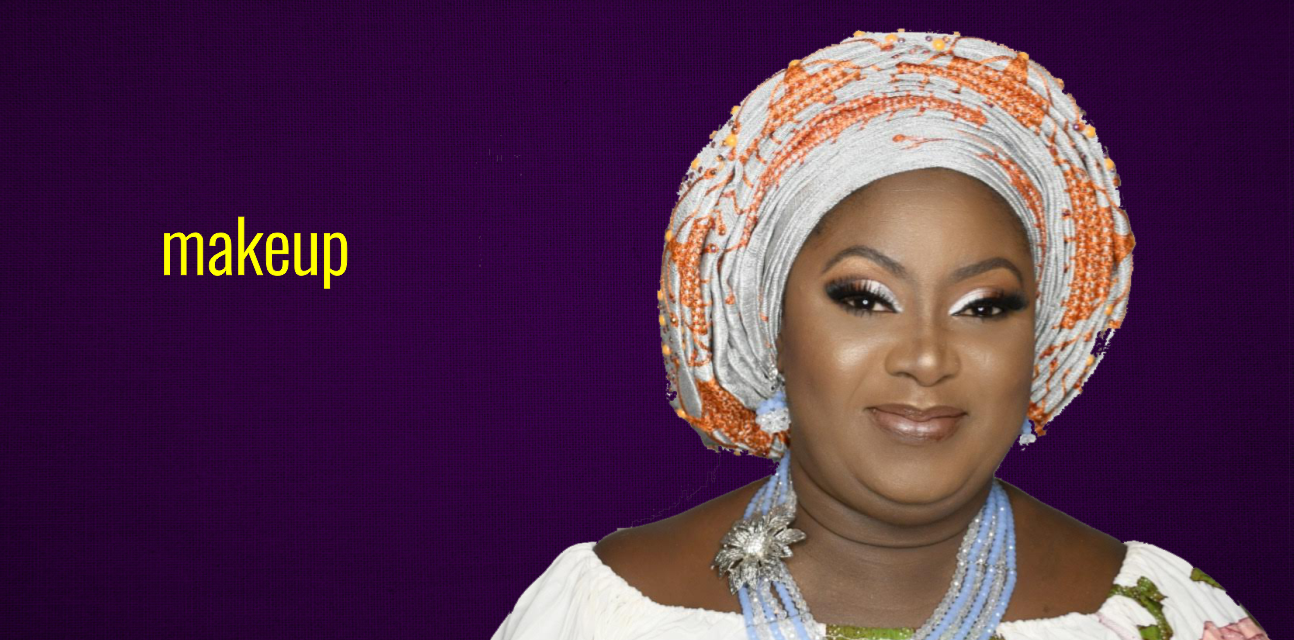
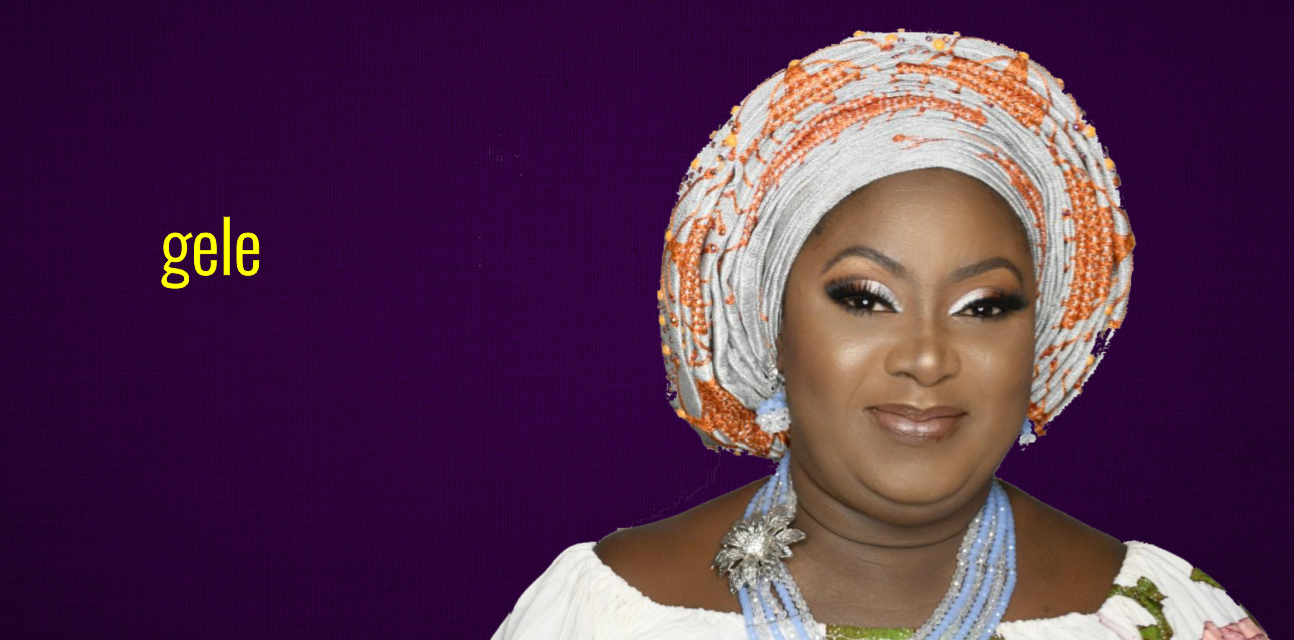
gele gallery

Changed region(s): [[0.1236, 0.3438, 0.2782, 0.4688]]

diff --git a/index.html b/index.html
@@ -273,13 +273,75 @@
       <hr />
       <div id="month-js"></div>
     </div>
-    <section id="gele"></section>
-    <section id="eyelash"></section>
-    <section id="eyebrow"></section>
-    <section id="makeover">
+    <!-- gele gallery -->
+    <section id="gele">
       <div class="gallery">
         <a href="img/banner/gele2.png" class="big-one"
           ><img src="img/banner/gele2.png" alt=""
+        /></a>
+
+        <a href="img/ig pics/gele-1.jpg" class="big"
+          ><!--<img
+            class="img-makeover"
+            src="img/ig pics/ig-02-makeover.jpg"
+            alt="before"
+        />--></a>
+
+        <a href="img/ig pics/gele-2.jpg" class="big"
+          ><!--<img
+            class="img-makeover"
+            src="img/ig pics/ig-03-makeover.jpg"
+            alt="after"
+        />--></a>
+
+        <a href="img/ig pics/gele-3.jpg" class="big"
+          ><img
+            class="img-makeover"
+            src="img/ig pics/gele-3.jpg"
+            alt="before"
+        /></a>
+        <a href="img/ig pics/gele-20.jpg" class="big"
+          ><img
+            class="img-makeover"
+            src="img/ig pics/gele-20.jpg"
+            alt="after"
+        /></a>
+        <a href="img/ig pics/gele-5.jpg" class="big"
+          ><img
+            class="img-makeover"
+            src="img/ig pics/gele-5.jpg"
+            alt="before"
+        /></a>
+        <a href="img/ig pics/gele-6.jpg" class="big"></a>
+        <a href="img/ig pics/gele-7.jpg" class="big"
+        ><img
+        class="img-makeover"
+        src="img/ig pics/gele-7.jpg"
+        alt="before"
+        /></a>
+        <a href="img/ig pics/gele-8.jpg" class="big"></a>
+        <a href="img/ig pics/gele-9.jpg" class="big"></a>
+        <a href="img/ig pics/gele-10.jpg" class="big"></a>
+        <a href="img/ig pics/gele-11.jpg" class="big"></a>
+        <a href="img/ig pics/gele-12.jpg" class="big"></a>
+        <a href="img/ig pics/gele-13.jpg" class="big"></a>
+        <a href="img/ig pics/gele-14.jpg" class="big"></a>
+        <a href="img/ig pics/gele-15.jpg" class="big"></a>
+        <a href="img/ig pics/gele-16.jpg" class="big"></a>
+        <a href="img/ig pics/gele-17.jpg" class="big"></a>
+        <a href="img/ig pics/gele-21.jpg" class="big"></a>
+      </div>
+    </section>
+        <div class="clearing"></div>
+    <section id="eyelash"></section>
+        <div class="clearing"></div>
+    <section id="eyebrow"></section>
+        <div class="clearing"></div>
+        <!-- makeover gallery -->
+    <section id="makeover">
+      <div class="gallery">
+        <a href="img/banner/makeup-banner.png" class="big-one"
+          ><img src="img/banner/makeup-banner.png" alt=""
         /></a>
 
         <a href="img/ig pics/ig-02-makeover.jpg" class="big"
@@ -295,6 +357,18 @@
             src="img/ig pics/ig-03-makeover.jpg"
             alt="after"
         />--></a>
+        <a href="img/ig pics/ig-46-makeover.jpg" class="big"
+          ></a>
+        <a href="img/ig pics/ig-34-makeover.jpg" class="big"
+          ></a>
+        <a href="img/ig pics/ig-33-makeover.jpg" class="big"
+          ></a>
+        <a href="img/ig pics/ig-36-makeover.jpg" class="big"
+          ></a>
+        <a href="img/ig pics/ig-35-makeover.jpg" class="big"
+          ></a>
+        <a href="img/ig pics/ig-37-makeover.jpg" class="big"
+          >
 
         <a href="img/ig pics/ig-06-makeover.jpg" class="big"
           ><img

diff --git a/css/style.css b/css/style.css
@@ -411,14 +411,7 @@ hr {
 }
 
 #gele {
-  display: block;
-  background: url("/img/banner/gele.png");
-  background-repeat: no-repeat;
-  background-size: contain;
-  background-position: center;
-  width: auto;
-  height: 300px;
-  margin-bottom: 50px;
+  position: relative;
 }
 
 #eyebrow {
@@ -445,11 +438,11 @@ hr {
   width: auto;
   height: 300px;
   margin-bottom: 20px;
-   box-shadow: 0px 8px 12px 1px rgba(0, 0, 0, 0.49);
+  box-shadow: 0px 8px 12px 1px rgba(0, 0, 0, 0.49);
 }
 
 #eyebrow {
-   box-shadow: 0px 8px 12px 1px rgba(0, 0, 0, 0.49);
+  box-shadow: 0px 8px 12px 1px rgba(0, 0, 0, 0.49);
 }
 
 #makeover {
@@ -460,10 +453,10 @@ hr {
   /* grid-template-columns: repeat(5, 1fr); */
 }
 
-.makeover {
+/* .makeover {
   position: relative;
   width: auto;
-}
+} */
 
 .gallery {
   position: relative;
@@ -475,6 +468,10 @@ hr {
 .gallery a.big-one {
   position: relative;
   max-width: 100%;
+}
+
+a.big-one img {
+  opacity: 1;
 }
 
 .gallery a {
@@ -499,7 +496,7 @@ hr {
 .gallery img:hover {
   opacity: 1;
   transform: scale(1);
-  transition: transform .35s ease-in;
+  transition: transform 0.35s ease-in;
 }
 
 /* .makeover-photo {
